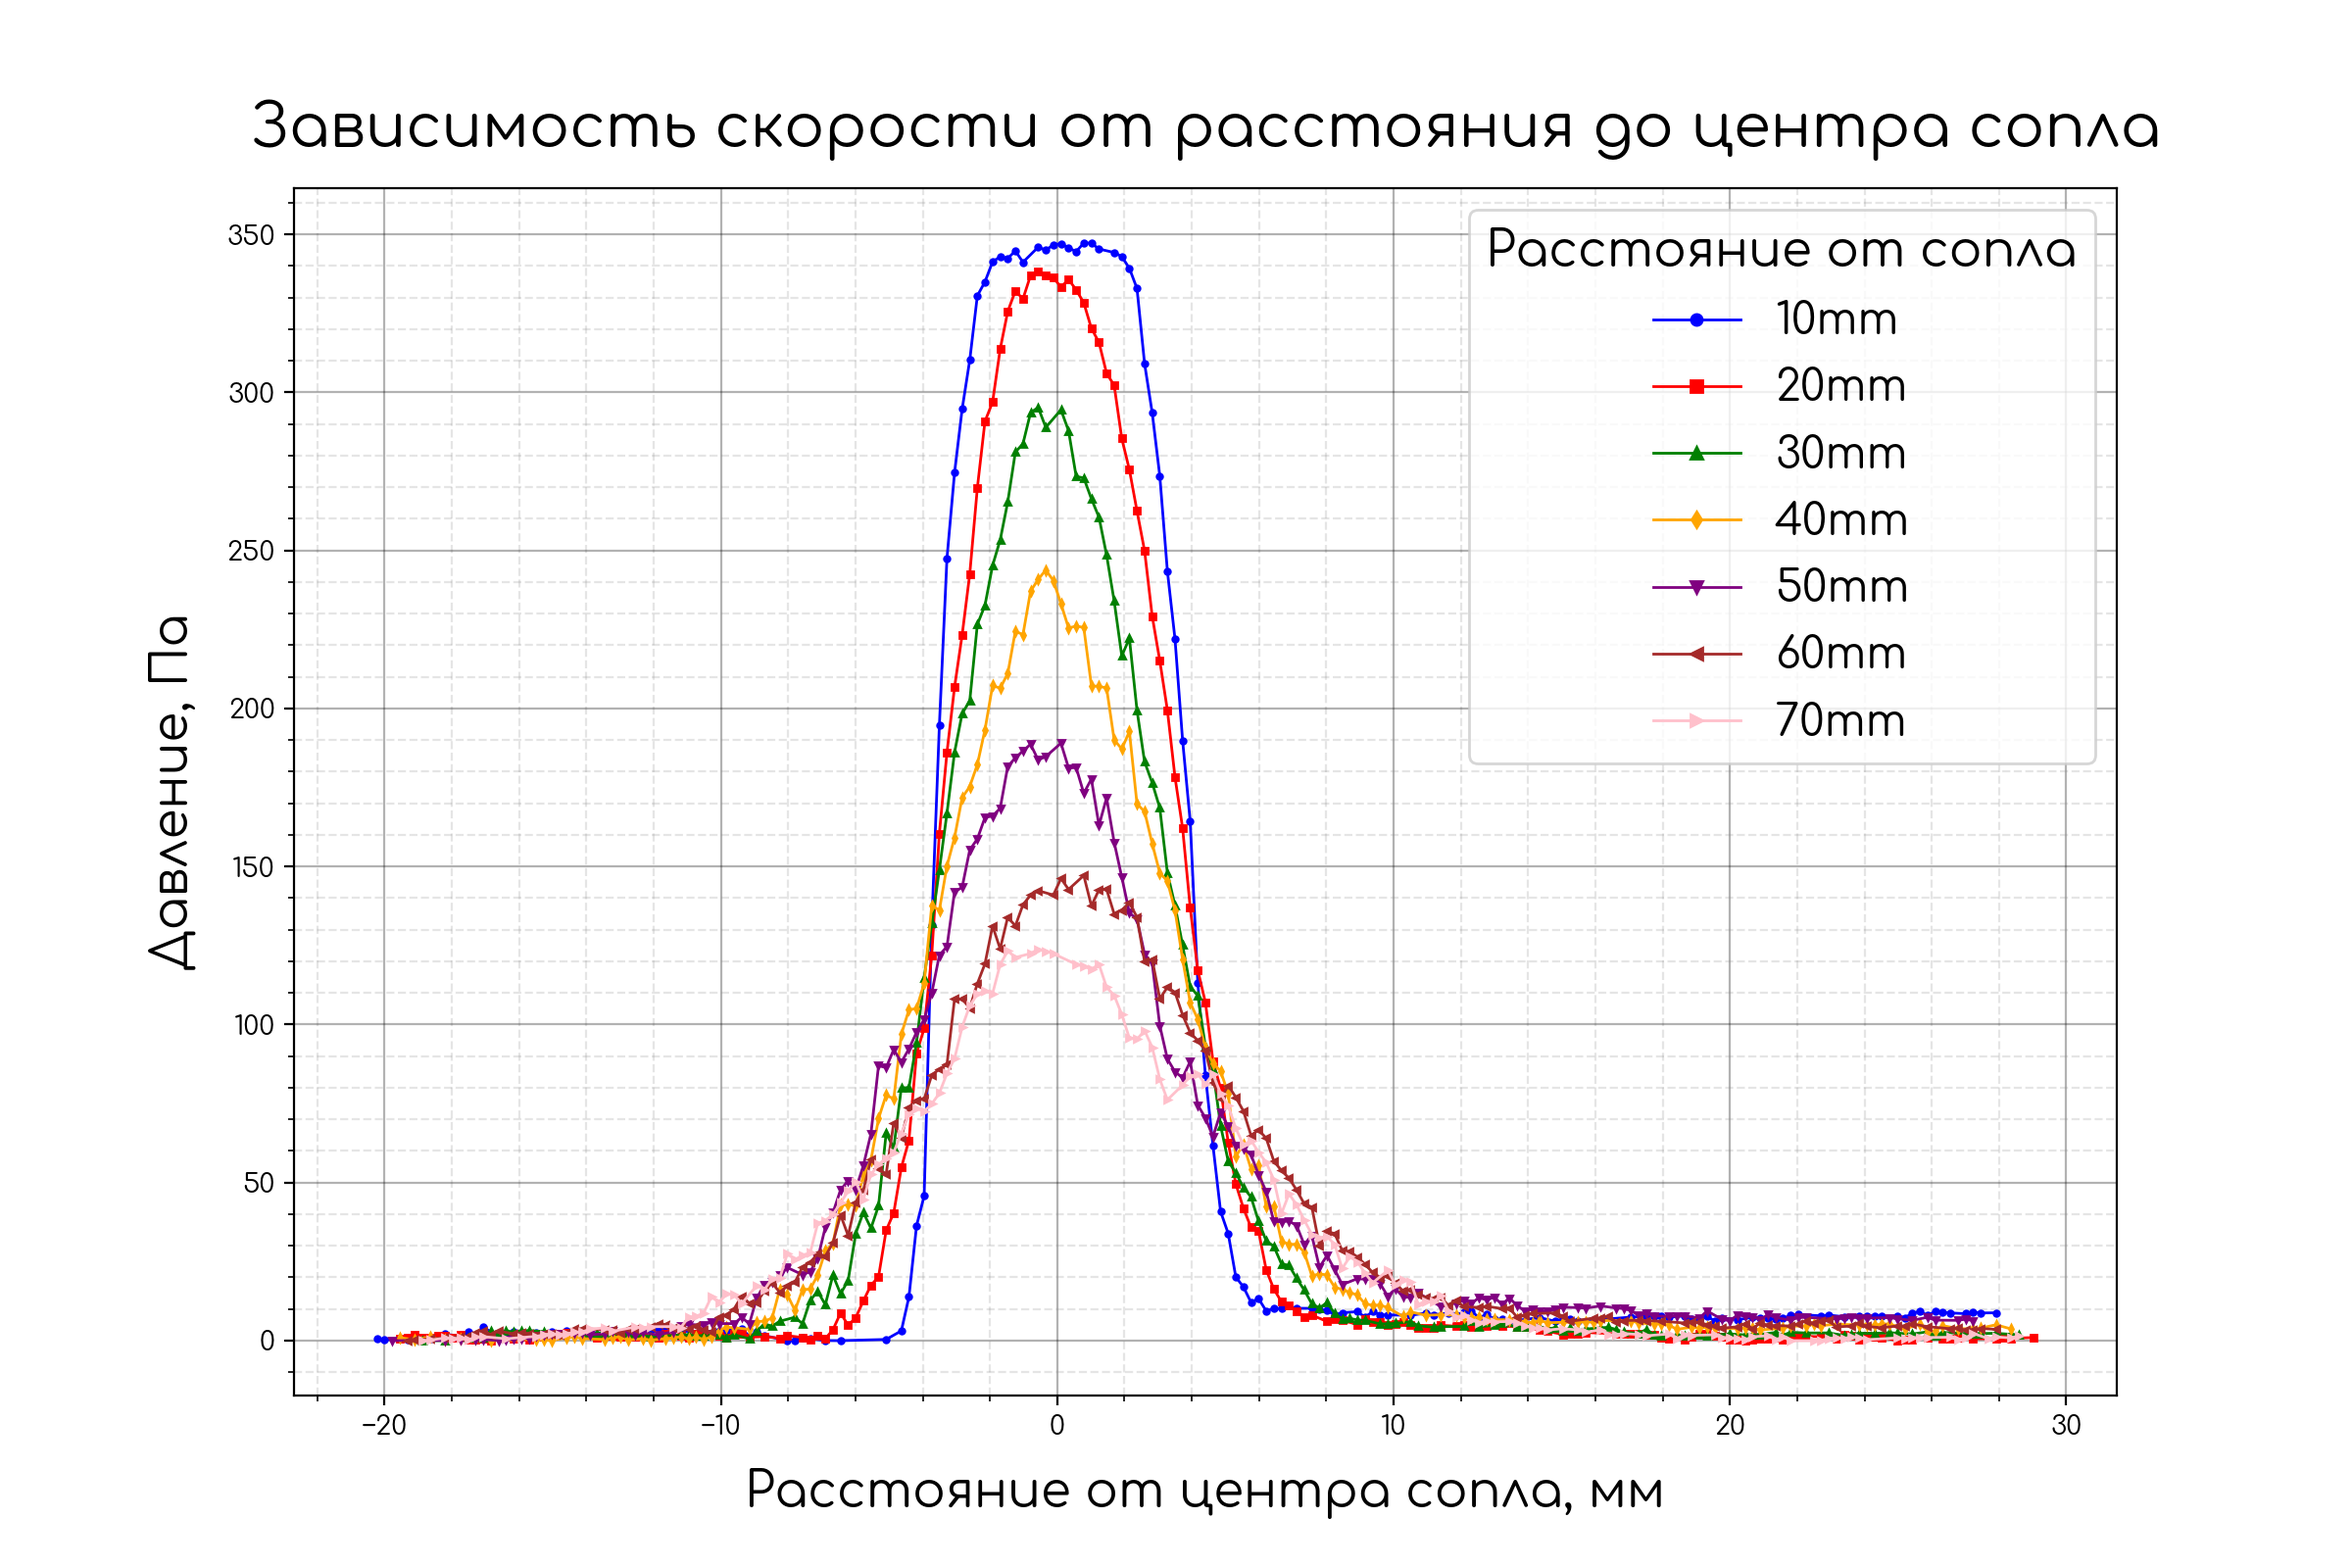
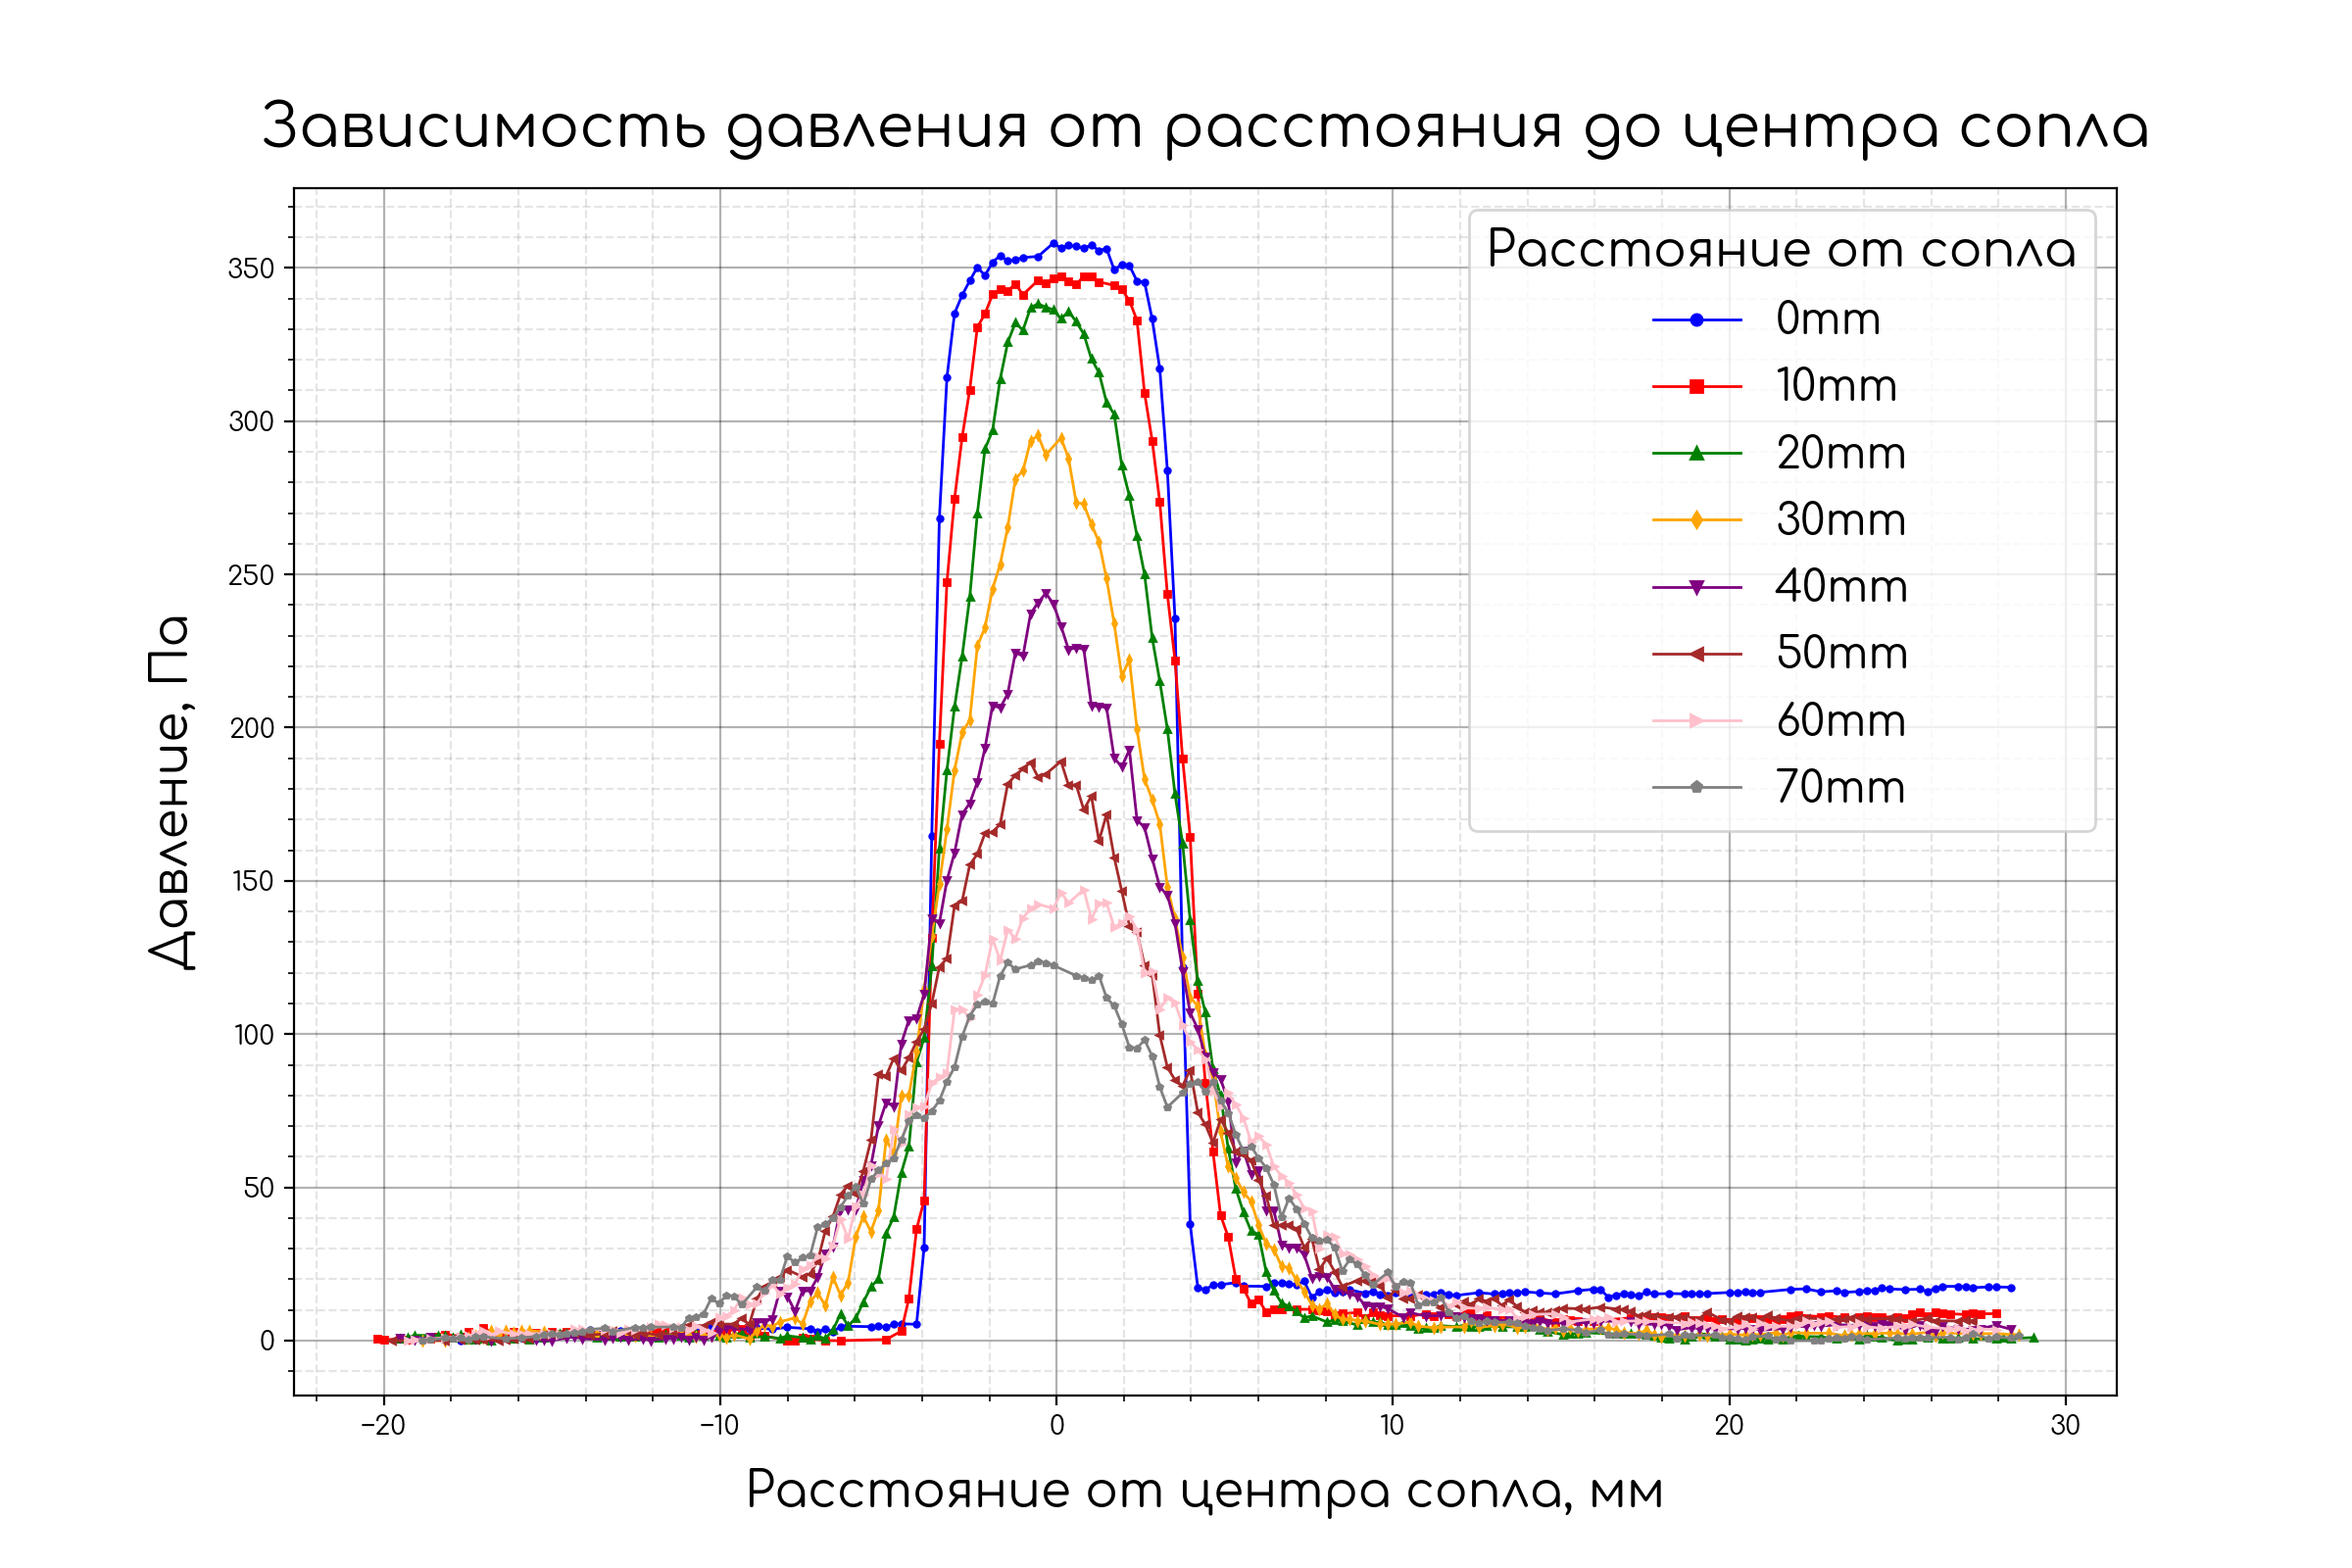
dff

diff --git a/Cherneyko b03-501/plot.py b/Cherneyko b03-501/plot.py
@@ -40,7 +40,7 @@ def first_plot():
 
         x,y = process(filename)
         x = x - shift
-        x, y = extraFunctions.remove_outliers(x, y, window=4, threshold=1)
+        x, y = extraFunctions.remove_outliers(x, y, window=4, threshold=1.5)
         x, y = extraFunctions.remove_lower_outliers(x, y, percentile=3)
         y = y - np.min(y)
 
@@ -100,7 +100,7 @@ def third_plot(filename="Q_values.txt"):
     ax.set_ylabel('Массовый расход Q, г/с', fontsize=16)
     ax.set_title('Зависимость массового расхода от расстояния до сопла', fontsize=18, pad=15)
 
-# first_plot()
+first_plot()
 # second_plot()
 # third_plot()
 
@@ -110,8 +110,9 @@ ax.grid(True, which='major', color='black', linestyle='-', alpha=0.3)
 ax.minorticks_on()
 ax.grid(True, which='minor', color='gray', linestyle='--', alpha=0.2)
 
+
+plt.savefig('pressure.png', dpi=200)
 # plt.savefig('velocity.png', dpi=200)
-# plt.savefig('pressure.png', dpi=200)
 # plt.savefig('q.png', dpi=200)
 plt.tight_layout()
 plt.show()
